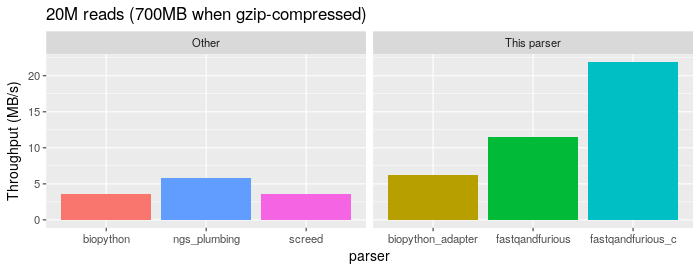
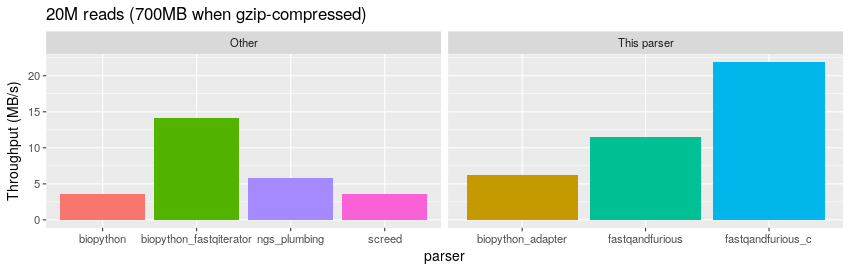
Added `Bio.SeqIO.QualityIO.FastqGeneralIterator` to benchmark (issue #2)

diff --git a/src/demo/benchmark.py b/src/demo/benchmark.py
@@ -70,6 +70,19 @@ def benchmark_biopython(fh):
     print()
     print('%i entries in %.3f seconds.' % (i+1, time.time()-t0))
 
+def benchmark_biopython_faster(fh):
+    from Bio.SeqIO.QualityIO import FastqGeneralIterator
+    total_seq = int(0)
+    t0 = time.time()
+    it = FastqGeneralIterator(fh)
+    for i, (title, seq, qual) in enumerate(it):
+        total_seq += len(seq)
+        if i % REFRESH_RATE == 0:
+            t1 = time.time()
+            print('\r%.2fMB/s' % (total_seq/(1E6)/(t1-t0)), end='', flush=True)
+    print()
+    print('%i entries in %.3f seconds.' % (i+1, time.time()-t0))
+
 def benchmark_biopython_adapter(fh):
     total_seq = int(0)
     t0 = time.time()
@@ -121,7 +134,8 @@ def run_speed(args):
 
     lst = list()
     if not args.no_biopython:
-        lst.append(('biopython', benchmark_biopython, 'rt'))
+        #lst.append(('biopython', benchmark_biopython, 'rt'))
+        lst.append(('biopython_fastqiterator', benchmark_biopython_faster, 'rt'))
         if args.with_biopython_adapter:
             lst.append(('biopython_adapter', benchmark_biopython_adapter, 'rb'))
     if not args.no_ngs_plumbing:
@@ -134,7 +148,7 @@ def run_speed(args):
         print('---')
         print(name)
         openfunc = _opener(args.filename)
-        if name == 'biopython':
+        if name in ('biopython', 'biopython_fastqiterator'):
             with openfunc(args.filename, mode=mode) as fh:
                 try:
                     func(fh)

diff --git a/tests.py b/tests.py
@@ -19,12 +19,20 @@ def test_readfastq_iter():
         with pytest.raises(RuntimeError):
             bufsize = 100
             _test_readfastq_iter(filename, bufsize, fastqandfurious._entrypos)
+    bufsize = 600
+    with pytest.raises(ValueError):
+        _test_readfastq_iter("data/test_tricky.fq", bufsize, fastqandfurious._entrypos)
         
 def test_readfastq_c_iter():
-    filename = "data/test.fq"
-    bufsize = 600
-    _test_readfastq_iter(filename, bufsize, _fastqandfurious.entrypos)
-    # buffer too low
-    with pytest.raises(RuntimeError):
-        bufsize = 100
+    for filename in ("data/test.fq", ):
+        bufsize = 600
         _test_readfastq_iter(filename, bufsize, _fastqandfurious.entrypos)
+        # buffer too low
+        with pytest.raises(RuntimeError):
+            bufsize = 100
+            _test_readfastq_iter(filename, bufsize, _fastqandfurious.entrypos)
+    bufsize = 600
+    with pytest.raises(ValueError):
+        _test_readfastq_iter("data/test_tricky.fq", bufsize, fastqandfurious._entrypos)
+
+

diff --git a/src/fastqandfurious.py b/src/fastqandfurious.py
@@ -73,7 +73,8 @@ def _entrypos(blob, offset, posbuffer):
         posbuffer[3] = seqend_i
         if blob[seqend_i + 1] != ord(b'+'):
             # multi-line FASTQ :/
-            raise ValueError("Multi-line FASTQ. Bye.")
+            raise ValueError("Multi-line FASTQ. Bye. (expected '+' but got '%s')." % \
+                             blob[max(0, seqend_i-3):min(len(blob), seqend_i+4)])
         if (seqend_i + 2) >= lblob:
             return 4
         if blob[seqend_i + 2] == CHAR_NEWLINE:

diff --git a/README.md b/README.md
@@ -71,6 +71,7 @@ are not counted):
 |---|---|---|
 | screed | 23.27MB/s ||
 | biopython | 10.18MB/s ||
+| biopython_fastqiterator | 50.19MB/s | `Bio.SeqIO.QualityIO.FastqGeneralIterator` |
 | biopython_adapter | 33.26MB/s | fastqandfurious creating biopython objects |
 | ngs_plumbing | 32.98MB/s ||
 | fastqandfurious | 51.27MB/s | pure python |
@@ -85,12 +86,13 @@ are not counted):
 
 | parser | throughput |
 |---|---|
-| screed | 3.63MB/s |
-| biopython | 3.57MB/s |
-| biopython_adapter | 6.19MB/s |
-| ngs_plumbing | 5.77MB/s |
-| fastqandfurious | 11.51MB/s |
-| fastqandfurious_c | 21.88MB/s |
+| screed | 3.63MB/s ||
+| biopython | 3.57MB/s ||
+| biopython_fastqiterator | 14.09MB/s ||
+| biopython_adapter | 6.19MB/s ||
+| ngs_plumbing | 5.77MB/s ||
+| fastqandfurious | 11.51MB/s ||
+| fastqandfurious_c | 21.88MB/s ||
 
 
 ### Compare
